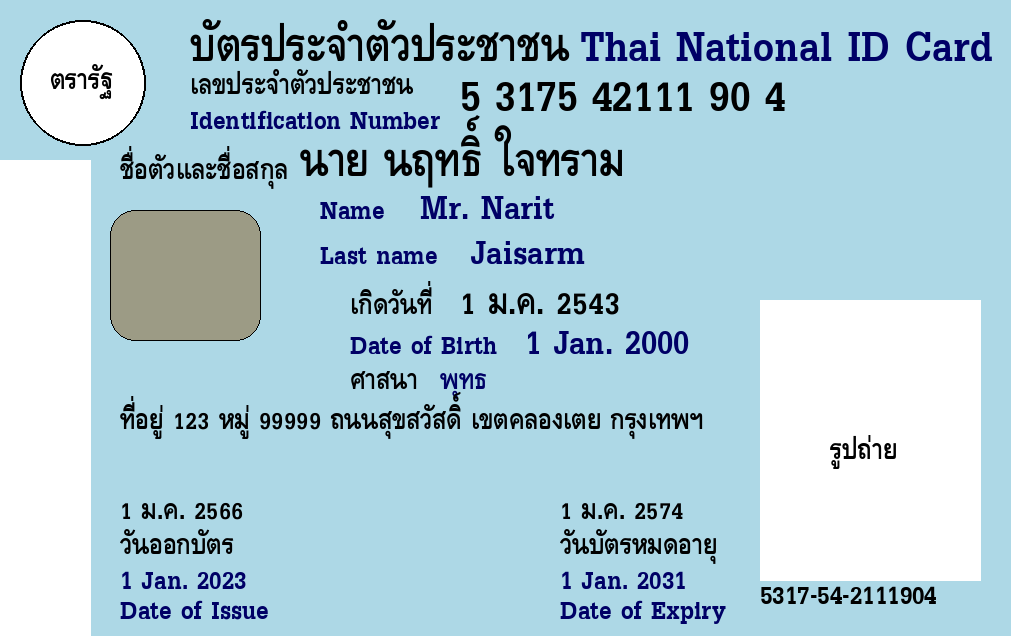
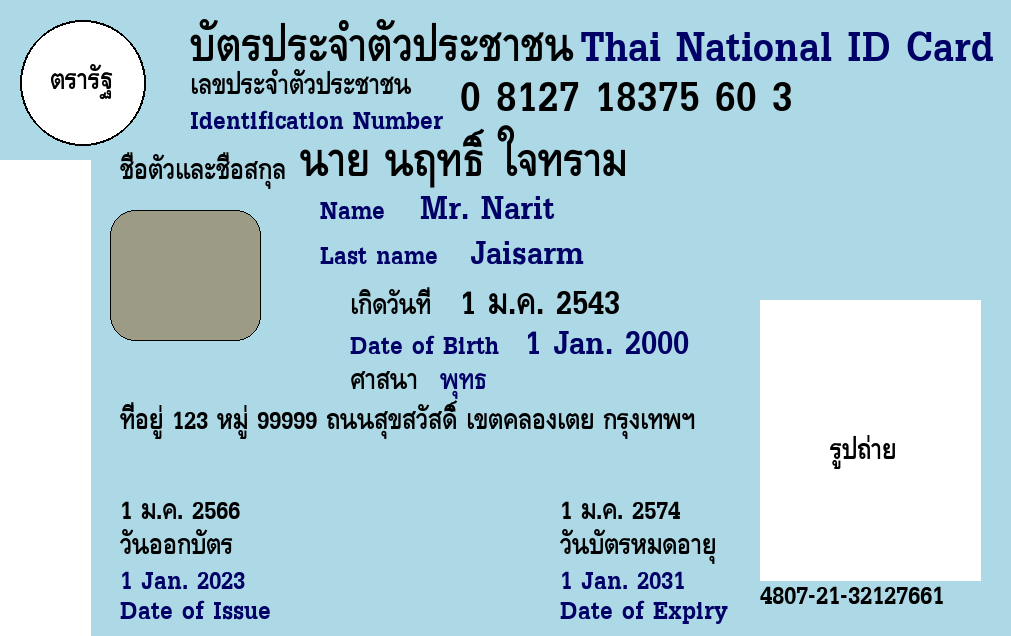
update requirements.txt and add "code_number"

diff --git a/main.py b/main.py
@@ -6,7 +6,7 @@ import matplotlib.pyplot as plt
 def generate_random_id(n=13):
     return ''.join([str(random.randint(0, 9)) for _ in range(n)])
 
-def create_thai_id_card(name_th, name_en, dob, religion, address, issue_date, exp_date, id_number=None):
+def create_thai_id_card(name_th, name_en, dob, religion, address, issue_date, exp_date, id_number=None, code_number=None):
     # สร้างพื้นหลังของบัตรประชาชน ขนาดเท่าของจริง (1011x636 พิกเซล สำหรับ 300 dpi)
     card_width, card_height = 1011, 636
     background_color = (173, 216, 230)  # สีฟ้าอ่อน
@@ -112,9 +112,9 @@ def create_thai_id_card(name_th, name_en, dob, religion, address, issue_date, ex
     # เพิ่มพื้นที่สำหรับภาพถ่ายบุคคล (ตำแหน่งขวาล่าง)
     photo_box = (760, 300, 980, 580)
     draw.rectangle(photo_box, fill=(255, 255, 255))
-    id_number = id_number or generate_random_id(n=14)
+    code_number = code_number or generate_random_id(n=14)
     draw.text((830, 440), "รูปถ่าย", font=font_thai, fill=(0, 0, 0))
-    draw.text((760, 585), f"{id_number[:4]}-{id_number[4:6]}-{id_number[6:14]}", font=font_thai, fill=(0, 0, 0))
+    draw.text((760, 585), f"{code_number[:4]}-{code_number[4:6]}-{code_number[6:14]}", font=font_thai, fill=(0, 0, 0))
 
     # บันทึกภาพบัตรประชาชน
     card.save("thai_id_card_real_size_with_positions.png")
